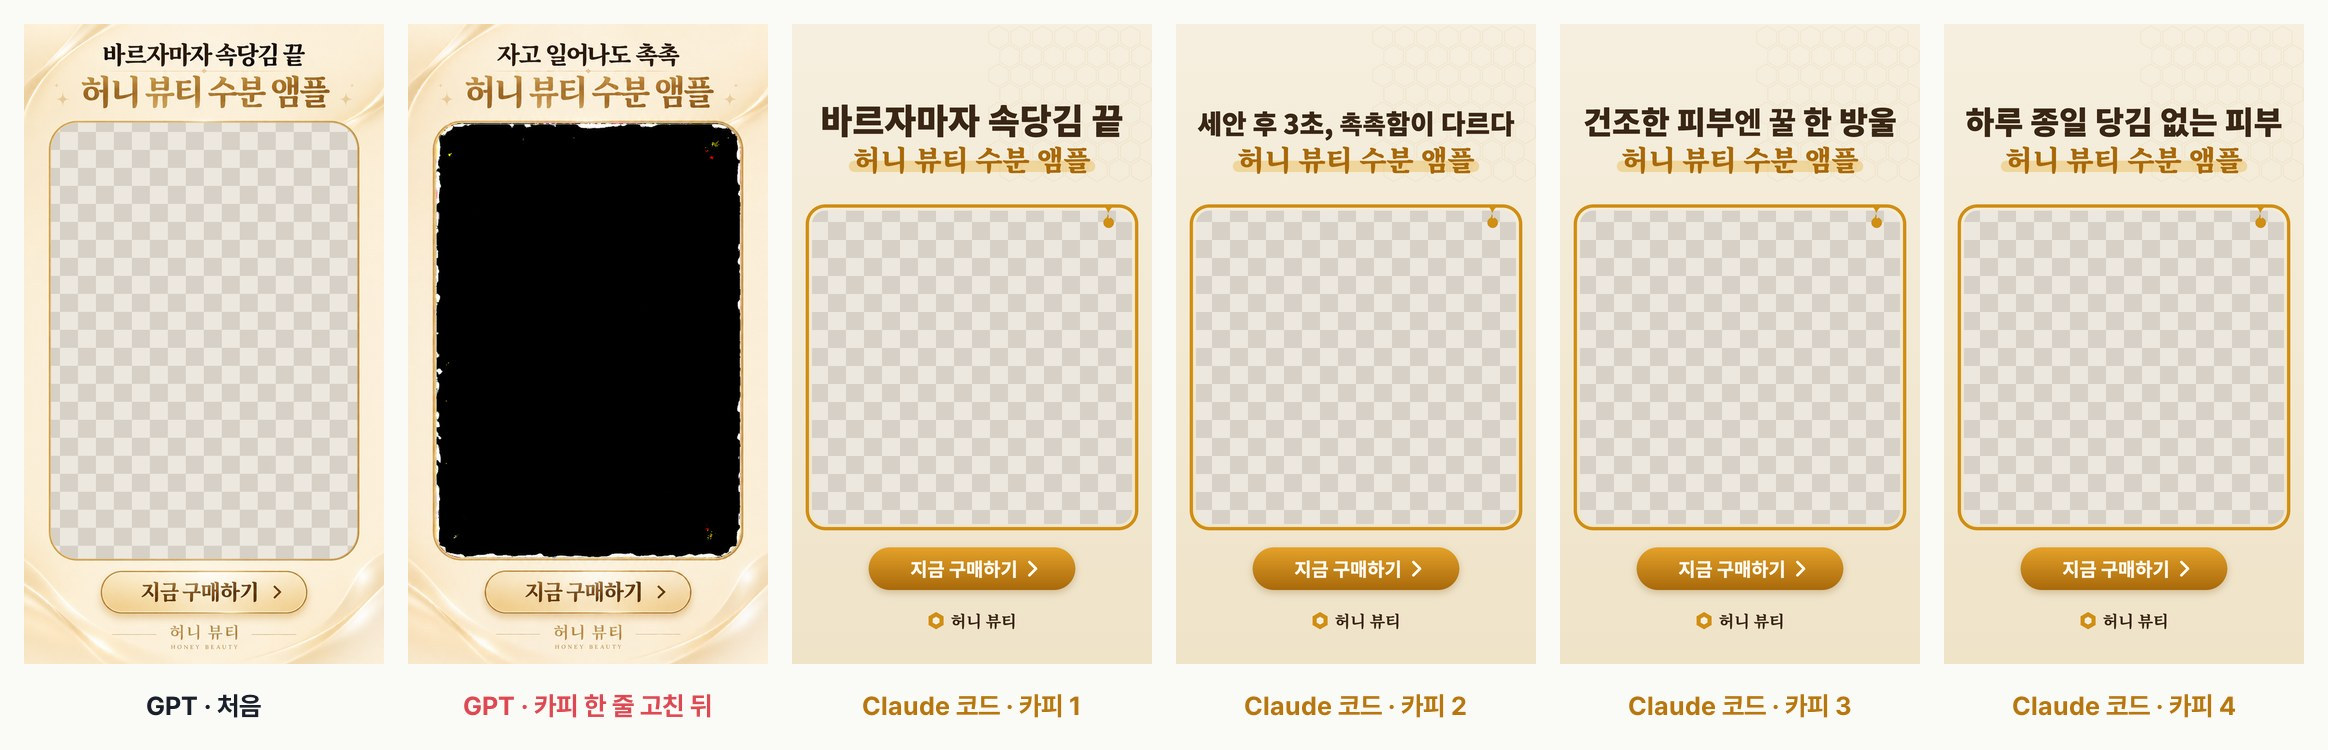
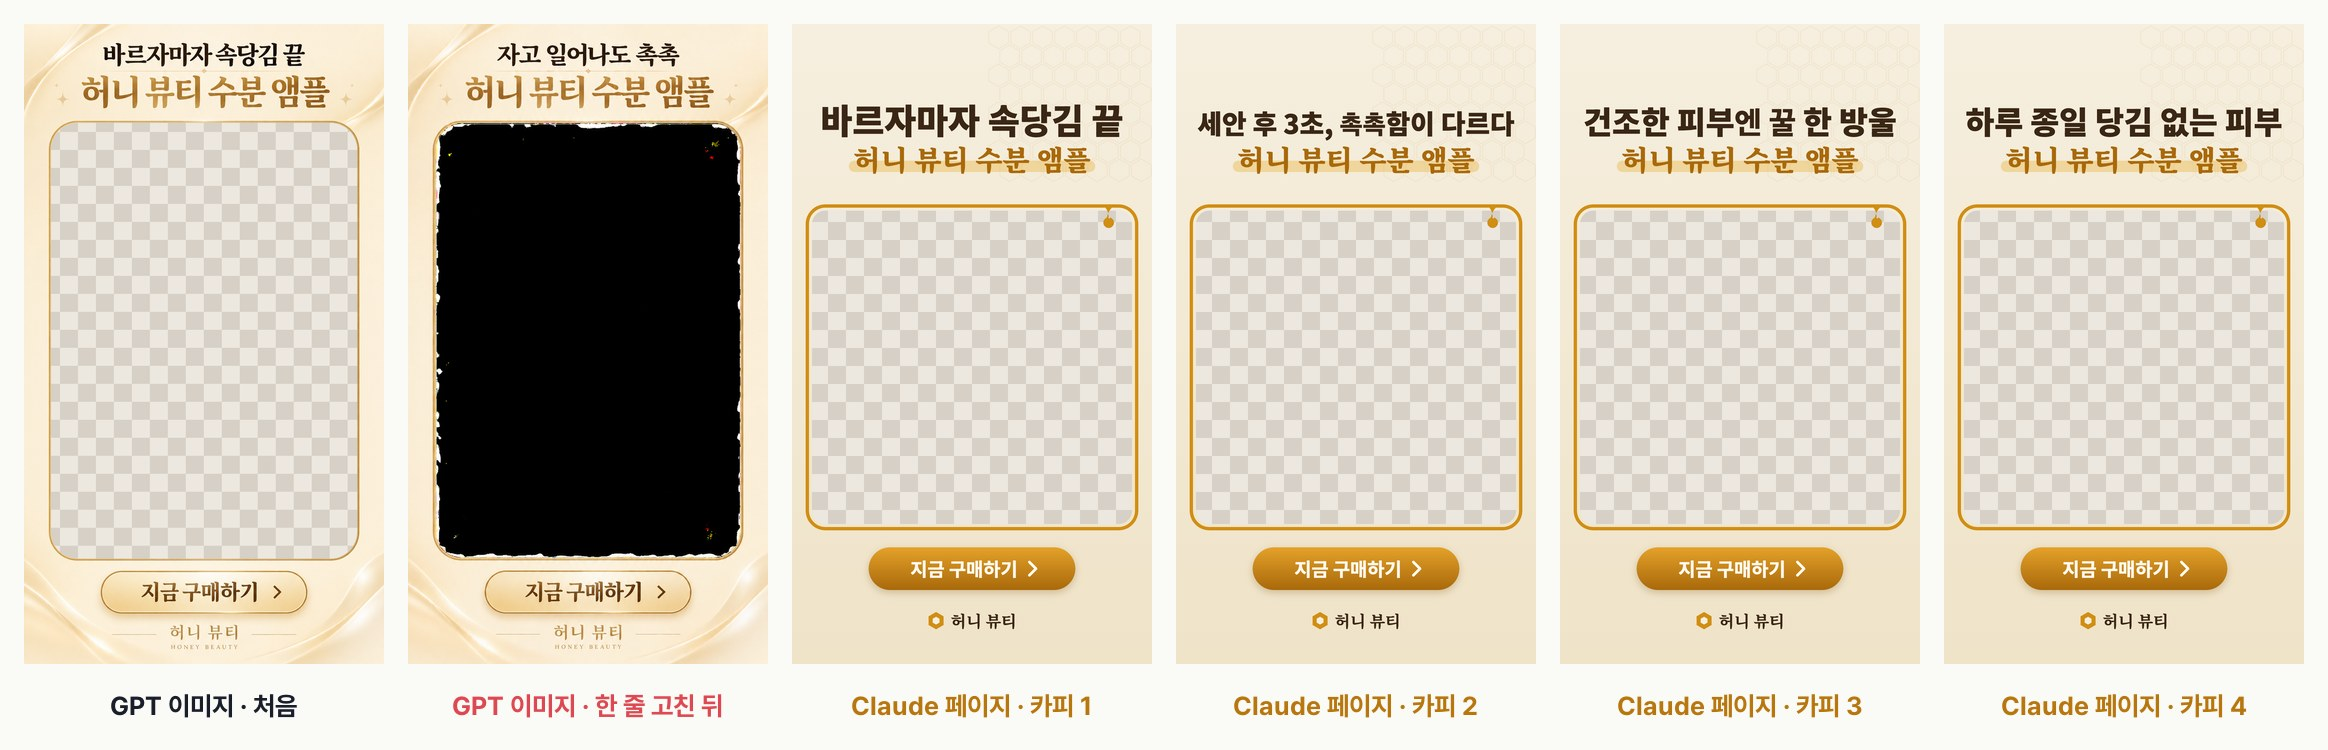
EP.17 상세 노트 v3 — 액자는 이미지로 뽑지 말고 Claude에 페이지를 부탁(요청 문장 두 개 · 액자 규격 · 완성 영상 주의점 · 쉬운 말) (목록 Soon! 유지)

diff --git a/ep/17/index.html b/ep/17/index.html
@@ -4,9 +4,9 @@
 <meta charset="utf-8">
 <meta name="viewport" content="width=device-width, initial-scale=1">
 <title>EP.17 요즘 그 액자형 소재, 편집 없이 뽑아요 · 이거 모르는 마케터 없게 해주세요</title>
-<meta name="description" content="세로 영상 위에 가운데 뚫린 PNG 한 장을 얹는 액자형 소재. 이미지 AI 말고 코드로 그리게 해서 카피만 바꾼 프레임 여러 장과 MP4까지 뽑는 요청 문장 전문, 프레임 규격, MP4 주의점.">
+<meta name="description" content="액자형 소재의 액자는 이미지로 뽑지 말고, Claude에 '액자 만들고 영상도 씌우는 페이지'를 부탁하세요. 그대로 붙여 넣는 요청 문장 두 개, 액자 규격, 완성 영상 받을 때 주의점.">
 <meta property="og:title" content="EP.17 요즘 그 액자형 소재, 편집 없이 뽑아요">
-<meta property="og:description" content="액자형 소재 프레임을 코드로 그리게 하는 요청 문장 + 프레임 규격 + MP4 주의점.">
+<meta property="og:description" content="액자는 이미지로 뽑지 말고 Claude에 페이지를 부탁 — 요청 문장 두 개 + 액자 규격 + 완성 영상 주의점.">
 <meta property="og:image" content="https://goofee-9p.github.io/ai-marketing-honey/assets/img/og.jpg">
 <link rel="icon" type="image/svg+xml" href="../../assets/img/logo.svg">
 <link rel="apple-touch-icon" href="../../assets/img/apple-touch-icon.png">
@@ -24,41 +24,41 @@
   <div class="hero">
     <span class="chip">EP.17 · 액자형 광고 소재</span>
     <h1>요즘 그 액자형 소재,<br><span class="hl">편집 없이 뽑아요</span></h1>
-    <p class="lead">위엔 카피, 아래엔 버튼, 가운데로 영상이 비치는 그 소재요. 사실 세로 영상 위에 가운데가 뚫린 PNG 한 장을 얹은 거예요. 이 프레임을 이미지 AI 말고 <b>코드로 그려 달라고</b> 하면, 창 위치는 그대로 두고 카피만 바꾼 소재를 여러 장 뽑고 MP4까지 받을 수 있어요.</p>
-    <div class="meta"><span class="chip ghost">요청 문장 전문</span><span class="chip ghost">프레임 규격</span><span class="chip ghost">MP4 주의점</span></div>
+    <p class="lead">위엔 카피, 아래엔 버튼, 가운데로 영상이 비치는 그 소재요. 사실 영상 위에 <b>가운데가 뚫린 액자 이미지 한 장</b>을 얹은 거예요. 이 액자를 GPT 이미지로 뽑았더니 카피 한 줄 고치자 뚫린 칸이 까맣게 메워졌어요. 그래서 <b>Claude에 '액자 만들고 영상도 씌우는 페이지'를 부탁</b>했어요. 카피를 바꿔도 칸은 그대로고, 영상을 올리면 완성 영상도 바로 받아요.</p>
+    <div class="meta"><span class="chip ghost">요청 문장 두 개</span><span class="chip ghost">액자 규격</span><span class="chip ghost">완성 영상 주의점</span></div>
   </div>
 
   <section>
-    <h2><span class="n">01</span>요청 문장 전문</h2>
-    <p class="muted">Claude(claude.ai) 채팅에 그대로 붙여 넣었어요. 카피·브랜드·색만 내 것으로 바꾸세요. 결과는 채팅 옆 미리보기 페이지로 나오고, 페이지의 버튼으로 내려받아요.</p>
+    <h2><span class="n">01</span>Claude에 그대로 붙여 넣는 요청 문장 두 개</h2>
+    <p class="muted">claude.ai 채팅에 차례로 보냈어요. 카피·브랜드·색만 내 것으로 바꾸세요. "코드로 그려 줘"는 그림으로 뽑지 말고 웹페이지처럼 만들어 달라는 뜻이에요. 그래야 글자가 정확하고, 고쳐도 뚫린 칸이 그대로예요. 결과는 채팅 옆에 페이지로 열려요.</p>
     <div class="prompt" id="frame-request">
-      <div class="label">① 프레임 PNG를 코드로 그리기</div>
+      <div class="label">① 액자 만드는 페이지</div>
       <pre>인스타 릴스 광고용 액자형 프레임 PNG를 코드로 그려 줘(이미지 생성 말고). 크기 1080x1920 세로. 위쪽에 큰 카피 두 줄 '바르자마자 속당김 끝' / '허니 뷰티 수분 앰플', 아래쪽에 '지금 구매하기' 버튼과 '허니 뷰티' 로고. 가운데는 세로 영상이 비쳐 보이도록 투명하게 비워 줘. 배경은 크림색. 투명 PNG로 내려받는 버튼도 달아 줘.</pre>
     </div>
     <div class="prompt" id="mp4-request">
-      <div class="label">② 카피 여러 장 + 영상 얹어 MP4로</div>
+      <div class="label">② 영상 올리면 액자 씌워 주기 + 카피 여러 장</div>
       <pre>여기에 세로 영상을 올리면 이 프레임을 얹은 MP4로 바로 내려받게 해 줘. 그리고 첫 줄 카피를 줄마다 하나씩 여러 개 넣으면, 카피별 프레임 PNG를 한 번에 받을 수 있게 해 줘.</pre>
-      <p class="tip">💡 ②를 보내면 같은 페이지에 '첫 줄 카피' 칸(한 줄에 하나), '전체 카피 PNG 받기(ZIP)', '영상 올리기 → MP4로 만들기'가 생겨요. 실제로 해 보니 ①·② 모두 2분 안쪽이었어요(②는 1분 49초).</p>
+      <p class="tip">💡 ②를 보내면 같은 페이지에 '첫 줄 카피' 칸(한 줄에 하나), '전체 카피 PNG 받기(ZIP)', '영상 올리기 → MP4로 만들기'가 생겨요. PNG는 가운데가 뚫린 액자 이미지 파일, MP4는 완성 영상 파일이에요. 실제로 해 보니 ①·② 모두 2분 안쪽이었어요(②는 1분 49초).</p>
     </div>
   </section>
 
   <section>
     <h2><span class="n">02</span>실제로 돌려 본 결과</h2>
-    <img src="../../assets/img/ep17/compare.jpg" alt="ChatGPT 첫 결과(가운데 투명)와 카피 한 줄 고친 뒤(가운데가 검게 채워짐), Claude 코드로 그린 프레임 카피 4장(창 위치 동일)" loading="lazy" style="width:100%;border-radius:16px;border:1.5px solid var(--line);display:block;margin-top:10px">
-    <div class="card" style="margin-top:12px"><b>같은 요청을 ChatGPT 이미지 생성에도 보내 봤어요</b><p class="muted" style="margin:4px 0 0">한글 카피는 깨지지 않았고 가운데도 진짜 투명이었어요. 다만 크기가 1080×1920이 아니라 941×1672로 나왔고, "다른 건 그대로 두고 첫 줄만 바꿔 줘"라고 하니 투명했던 창이 검게 채워진 이미지가 나왔어요. 코드로 그린 쪽은 정확히 1080×1920, 카피를 바꿔도 창 위치가 그대로예요.</p></div>
+    <img src="../../assets/img/ep17/compare.jpg" alt="GPT 이미지 첫 결과(가운데 뚫림)와 카피 한 줄 고친 뒤(뚫린 칸이 까맣게 메워짐), Claude 페이지로 만든 액자 카피 4장(뚫린 칸 위치 동일)" loading="lazy" style="width:100%;border-radius:16px;border:1.5px solid var(--line);display:block;margin-top:10px">
+    <div class="card" style="margin-top:12px"><b>같은 요청을 ChatGPT 이미지 생성에도 보내 봤어요</b><p class="muted" style="margin:4px 0 0">한글 카피는 깨지지 않았고 처음엔 가운데도 진짜 뚫려 있었어요. 다만 크기가 1080×1920이 아니라 941×1672로 나왔고, "다른 건 그대로 두고 첫 줄만 바꿔 줘"라고 하니 뚫렸던 칸이 까맣게 메워진 이미지가 나왔어요(한 번 해 본 결과예요). Claude 페이지로 만든 쪽은 정확히 1080×1920이고, 카피를 바꿔도 칸 위치가 그대로예요.</p></div>
   </section>
 
   <section>
-    <h2><span class="n">03</span>프레임 규격</h2>
+    <h2><span class="n">03</span>액자 규격</h2>
     <ul class="muted" style="padding-left:18px;line-height:1.8">
-      <li>캔버스 <b>1080 × 1920</b>(9:16), 투명 PNG(알파 채널).</li>
-      <li>이번 예시의 투명 창: x 60–1020, y 560–1500(960 × 940, 모서리 40px). 위 카피·아래 버튼은 창 밖에 둬요.</li>
+      <li>크기 <b>1080 × 1920</b>(세로 9:16). 가운데가 비어 있는(투명한) PNG 파일이에요.</li>
+      <li>이번 예시의 뚫린 칸: 가로 60–1020, 세로 560–1500(960 × 940, 모서리 40px). 위 카피·아래 버튼은 칸 밖에 둬요.</li>
       <li>릴스 화면은 위쪽 약 220px(계정·메뉴), 아래쪽 약 340px(캡션·버튼), 오른쪽 아이콘 줄이 가려져요. 버튼·로고가 아래 캡션에 걸리면 "버튼을 위로 올려 줘"라고 다시 요청하세요. 페이지의 '릴스 UI 가림 영역 표시'로 미리 볼 수 있어요.</li>
     </ul>
   </section>
 
   <section>
-    <h2><span class="n">04</span>MP4로 받을 때 꼭</h2>
+    <h2><span class="n">04</span>완성 영상(MP4)으로 받을 때 꼭</h2>
     <div class="warn">
       <ul>
         <li><b>브라우저에서 실시간으로 녹화</b>해요. 30초 영상이면 30초 걸리고, 녹화 중에 탭을 내리면 끊길 수 있어요.</li>

diff --git a/index.html b/index.html
@@ -37,7 +37,7 @@
       </div>
       <div class="ep soon" aria-label="EP.17 곧 공개">
         <img src="assets/img/ep17/cover_34.jpg" alt="EP.17 커버">
-        <div><div class="no">EP.17</div><div class="t">요즘 그 액자형 소재, 편집 없이 뽑아요</div><div class="d">이미지 AI 말고 코드로. 프레임을 그리게 하는 요청 문장 전문 + 프레임 규격 + MP4로 받을 때 주의점.</div></div>
+        <div><div class="no">EP.17</div><div class="t">요즘 그 액자형 소재, 편집 없이 뽑아요</div><div class="d">액자는 이미지로 뽑지 말고 Claude에 페이지를 부탁. 요청 문장 두 개 + 액자 규격 + 완성 영상 받을 때 주의점.</div></div>
         <span class="badge">Soon!</span>
       </div>
       <div class="ep soon" aria-label="EP.16 곧 공개">
